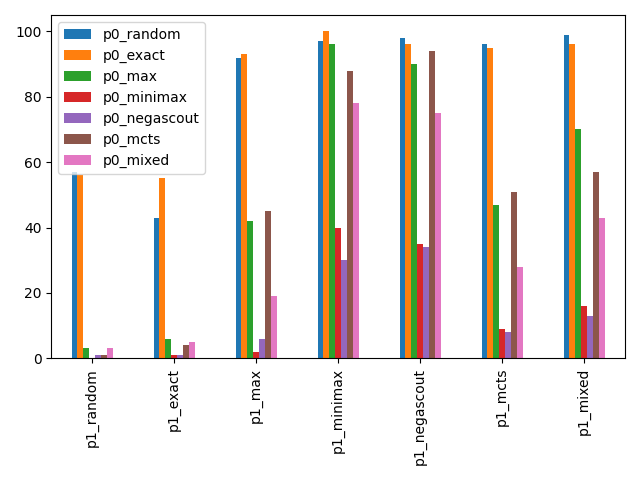
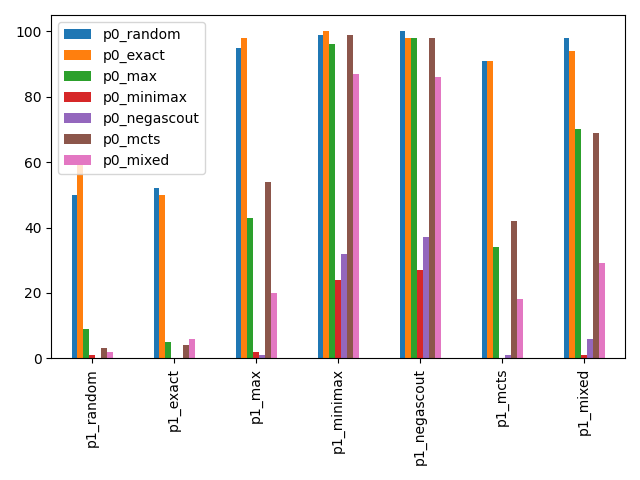
Test with larger depth

diff --git a/mancala/agents/montecarlo.py b/mancala/agents/montecarlo.py
@@ -10,18 +10,13 @@ from mancala.state.base import BaseState
 
 
 class MCTSRootNode:
-    def __init__(self, state: BaseState, depth: int, sims: int = 50, parent=None, parent_action=None):
+    def __init__(self, state: BaseState, depth: int, sims: int = 25):
         self.state = state.clone()
-        self.max_sims = sims
+        self.max_sims = depth * sims
         self.depth = depth
-        self.parent = parent
-        self.parent_act = parent_action
         self._untried_actions = self.state.legal_actions(self.state.turn)
         self.children = []
         self._num_sims = 0
-        self._results = defaultdict(int)
-        self._results[1] = 0
-        self._results[-1] = 0
 
     def select(self):
         """
